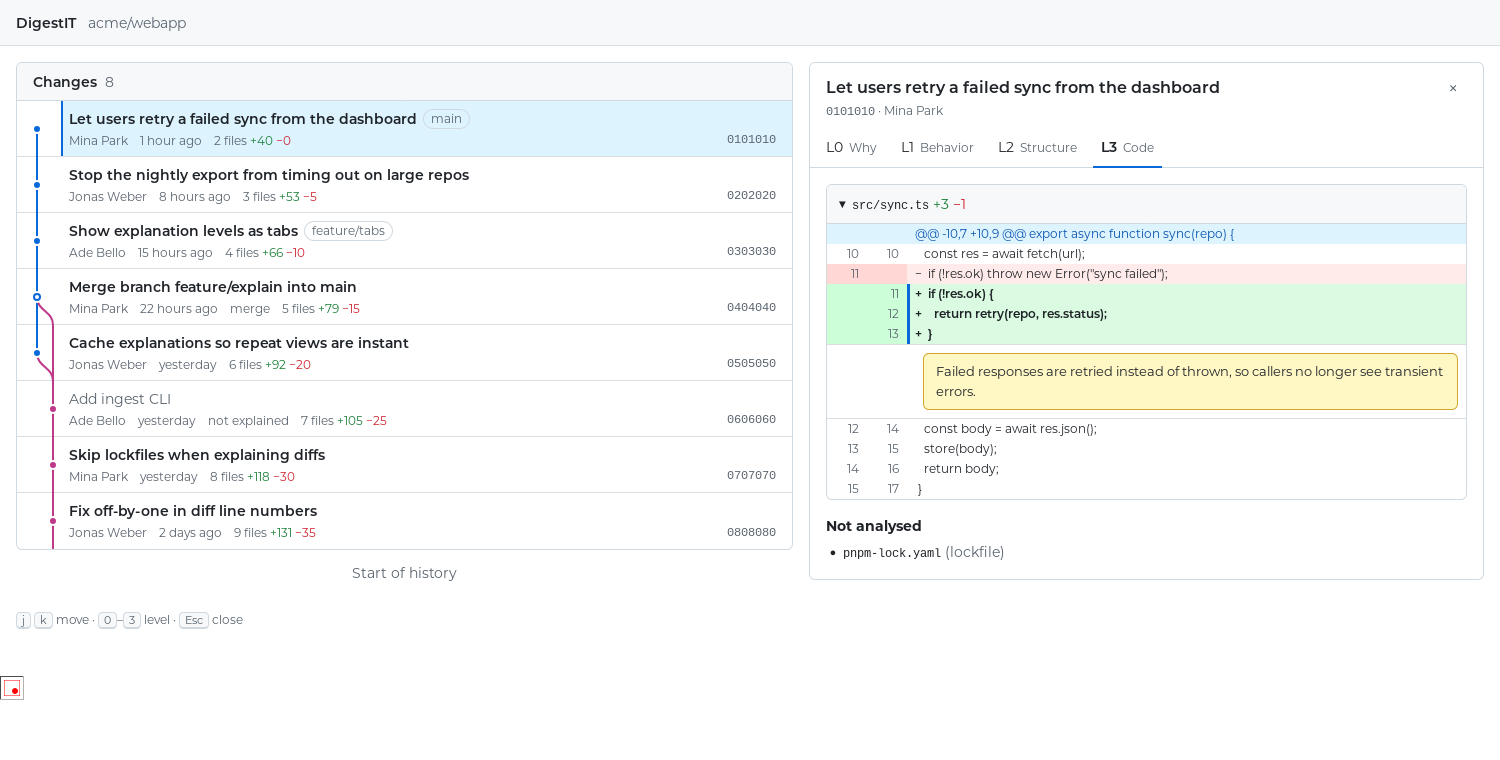
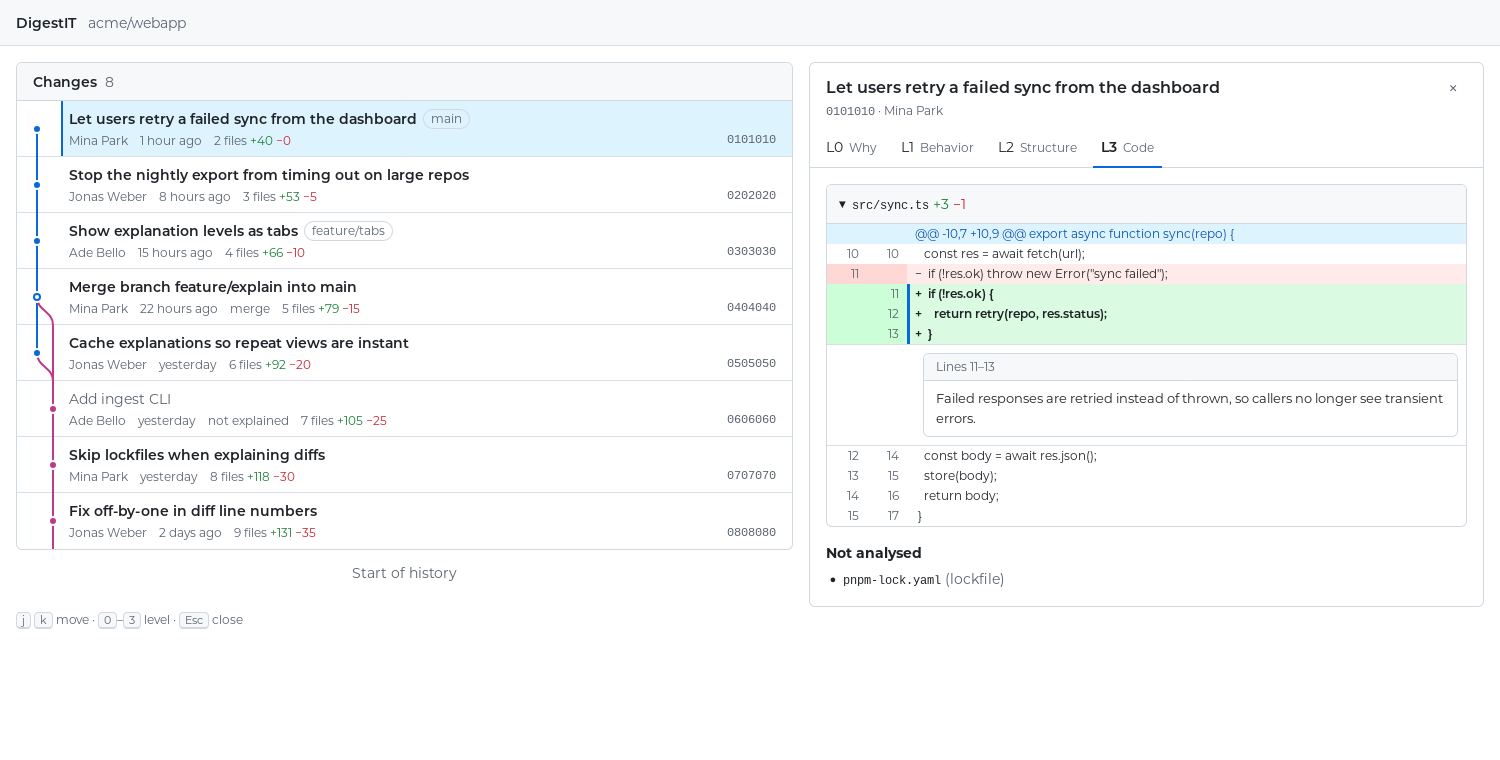
Panel review fixes: Home/End on level tabs, annotation cards with a line-range header in neutral colors, screenshots without the harness artifact

Changed region(s): [[0.552, 0.4539, 0.9813, 0.7868]]

diff --git a/apps/web/src/styles.css b/apps/web/src/styles.css
@@ -20,8 +20,6 @@
   --del-no: #ffd7d5;
   --hunk-bg: #ddf4ff;
   --hunk-fg: #0550ae;
-  --note-bg: #fff8c5;
-  --note-border: #d4a72c;
   --lane-0: #0969da;
   --lane-1: #bf3989;
   --lane-2: #1a7f37;
@@ -53,8 +51,6 @@
     --del-no: rgba(248, 81, 73, 0.3);
     --hunk-bg: rgba(56, 139, 253, 0.15);
     --hunk-fg: #9ecbff;
-    --note-bg: #272115;
-    --note-border: #9e6a03;
     --lane-0: #4493f8;
     --lane-1: #db61a2;
     --lane-2: #3fb950;
@@ -145,7 +141,7 @@ kbd { border: 1px solid var(--border); border-bottom-width: 2px; border-radius: 
 .file { margin: 0 0 16px; border: 1px solid var(--border); border-radius: 6px; overflow: hidden; }
 .file > summary { padding: 8px 12px; cursor: pointer; overflow-wrap: anywhere; background: var(--bg-inset); }
 .file[open] > summary { border-bottom: 1px solid var(--border); }
-.file > .muted, .file > .note { margin: 8px 12px; }
+.file > .muted, .file > .loose { margin: 8px 12px; }
 .diff { width: 100%; border-collapse: collapse; font: 12px/20px ui-monospace, SFMono-Regular, 'SF Mono', Menlo, Consolas, monospace; }
 .diff .no { width: 1%; min-width: 40px; padding: 0 8px; text-align: right; color: var(--muted); user-select: none; white-space: nowrap; vertical-align: top; }
 .diff .code { white-space: pre-wrap; overflow-wrap: anywhere; padding: 0 8px; }
@@ -157,5 +153,6 @@ kbd { border: 1px solid var(--border); border-bottom-width: 2px; border-radius: 
 .dl.hunk .no { background: var(--hunk-bg); }
 .dl.key .code { box-shadow: inset 3px 0 0 var(--accent); font-weight: 600; }
 .annotation td { padding: 8px 8px 8px 96px; background: var(--bg); border-top: 1px solid var(--border-muted); border-bottom: 1px solid var(--border-muted); }
-.note { margin: 0; padding: 8px 12px; border: 1px solid var(--note-border); background: var(--note-bg); border-radius: 6px; font-family: inherit; font-size: 13px; line-height: 1.5; white-space: normal; }
-.note.loose { margin: 8px 12px; }
+.note { border: 1px solid var(--border); background: var(--bg); border-radius: 6px; overflow: hidden; font-family: inherit; font-size: 13px; line-height: 1.5; white-space: normal; }
+.note-head { padding: 4px 12px; background: var(--bg-inset); border-bottom: 1px solid var(--border); color: var(--muted); font-size: 12px; }
+.note p { margin: 0; padding: 8px 12px; }

diff --git a/apps/web/src/Panel.tsx b/apps/web/src/Panel.tsx
@@ -1,6 +1,6 @@
 import { useEffect, useState } from 'react';
 import { fetchChange, fetchExplanation, type ChangeDetail, type Explanation, type Level } from './api.js';
-import { annotate, keyLineSet, parsePatch, type Annotation } from './diff.js';
+import { annotate, keyLineSet, lineRange, parsePatch, type Annotation } from './diff.js';
 import { shortSha } from './format.js';
 import { LEVELS } from './level.js';
 
@@ -109,7 +109,7 @@ function FileDiff({ file, annotations }: { file: NonNullable<Explanation['files'
           </tbody>
         </table>
       )}
-      {unplaced.map((a, i) => <p key={i} className="note loose">{a.note}</p>)}
+      {unplaced.map((a, i) => <div key={i} className="loose"><Note a={a} /></div>)}
     </details>
   );
 }
@@ -125,10 +125,19 @@ function DiffRow({ line: l, key_ }: { line: ReturnType<typeof parsePatch>[number
       </tr>
       {l.notes.map((n, i) => (
         <tr key={i} className="annotation">
-          <td colSpan={3}><p className="note" role="note">{n}</p></td>
+          <td colSpan={3}><Note a={n} /></td>
         </tr>
       ))}
     </>
+  );
+}
+
+function Note({ a }: { a: Annotation }) {
+  return (
+    <div className="note" role="note">
+      <div className="note-head">{lineRange(a)}</div>
+      <p>{a.note}</p>
+    </div>
   );
 }
 
@@ -199,8 +208,14 @@ export function Panel({ changeId, sha, title, level, onLevel, onClose }: {
             tabIndex={level === l.level ? 0 : -1}
             onClick={() => onLevel(l.level)}
             onKeyDown={(e) => {
-              if (e.key !== 'ArrowRight' && e.key !== 'ArrowLeft') return;
-              const next = ((level + (e.key === 'ArrowRight' ? 1 : 3)) % 4) as Level;
+              const next: Level | null =
+                e.key === 'ArrowRight' ? (((level + 1) % 4) as Level)
+                : e.key === 'ArrowLeft' ? (((level + 3) % 4) as Level)
+                : e.key === 'Home' ? 0
+                : e.key === 'End' ? 3
+                : null;
+              if (next === null) return;
+              e.preventDefault();
               onLevel(next);
               document.getElementById(`tab-${next}`)?.focus();
             }}

diff --git a/apps/web/src/diff.test.ts b/apps/web/src/diff.test.ts
@@ -1,5 +1,5 @@
 import { describe, expect, it } from 'vitest';
-import { annotate, keyLineSet, parsePatch } from './diff.js';
+import { annotate, keyLineSet, lineRange, parsePatch } from './diff.js';
 
 const patch = ['@@ -1,3 +1,3 @@ fn', ' a', '-b', '+B', '+c', ' d', '\\ No newline at end of file', ''].join('\n');
 
@@ -33,13 +33,21 @@ describe('annotate', () => {
       { path: 'x', side: 'old', startLine: 2, endLine: 2, note: 'o1' },
       { path: 'x', side: 'new', startLine: 99, endLine: 99, note: 'gone' },
     ]);
-    expect(l.find((x) => x.newNo === 3)?.notes).toEqual(['n1']);
-    expect(l.find((x) => x.kind === 'del')?.notes).toEqual(['o1']);
+    expect(l.find((x) => x.newNo === 3)?.notes.map((n) => n.note)).toEqual(['n1']);
+    expect(l.find((x) => x.kind === 'del')?.notes.map((n) => n.note)).toEqual(['o1']);
     expect(un.map((a) => a.note)).toEqual(['gone']);
   });
   it('marks key lines across the range', () => {
     const l = parsePatch(patch);
     const k = keyLineSet(l, [{ path: 'x', side: 'new', startLine: 2, endLine: 3, note: '' }]);
     expect(k.size).toBe(2);
+  });
+});
+
+describe('lineRange', () => {
+  it('labels single lines, ranges and the old side', () => {
+    expect(lineRange({ side: 'new', startLine: 4, endLine: 4 })).toBe('Line 4');
+    expect(lineRange({ side: 'new', startLine: 11, endLine: 13 })).toBe('Lines 11–13');
+    expect(lineRange({ side: 'old', startLine: 2, endLine: 5 })).toBe('Lines 2–5 (old)');
   });
 });

diff --git a/apps/web/src/diff.ts b/apps/web/src/diff.ts
@@ -14,8 +14,8 @@ export interface DiffLine {
   text: string;
   oldNo: number | null;
   newNo: number | null;
-  /** Notes anchored to end at this line; rendered right below it. */
-  notes: string[];
+  /** Annotations whose range ends at this line; rendered right below it. */
+  notes: Annotation[];
 }
 
 const HUNK = /^@@ -(\d+)(?:,\d+)? \+(\d+)(?:,\d+)? @@/;
@@ -53,10 +53,16 @@ export function annotate(lines: DiffLine[], annotations: Annotation[]): Annotati
   const unplaced: Annotation[] = [];
   for (const a of annotations) {
     const target = lines.find((l) => (a.side === 'new' ? l.newNo : l.oldNo) === a.endLine);
-    if (target) target.notes.push(a.note);
+    if (target) target.notes.push(a);
     else unplaced.push(a);
   }
   return unplaced;
+}
+
+/** Card header for an annotation, e.g. "Lines 11–13" or "Line 4 (old)". */
+export function lineRange(a: Pick<Annotation, 'side' | 'startLine' | 'endLine'>): string {
+  const r = a.startLine === a.endLine ? `Line ${a.startLine}` : `Lines ${a.startLine}–${a.endLine}`;
+  return a.side === 'old' ? `${r} (old)` : r;
 }
 
 /** True when a line falls inside any annotated range for the file (used for highlighting key lines). */
